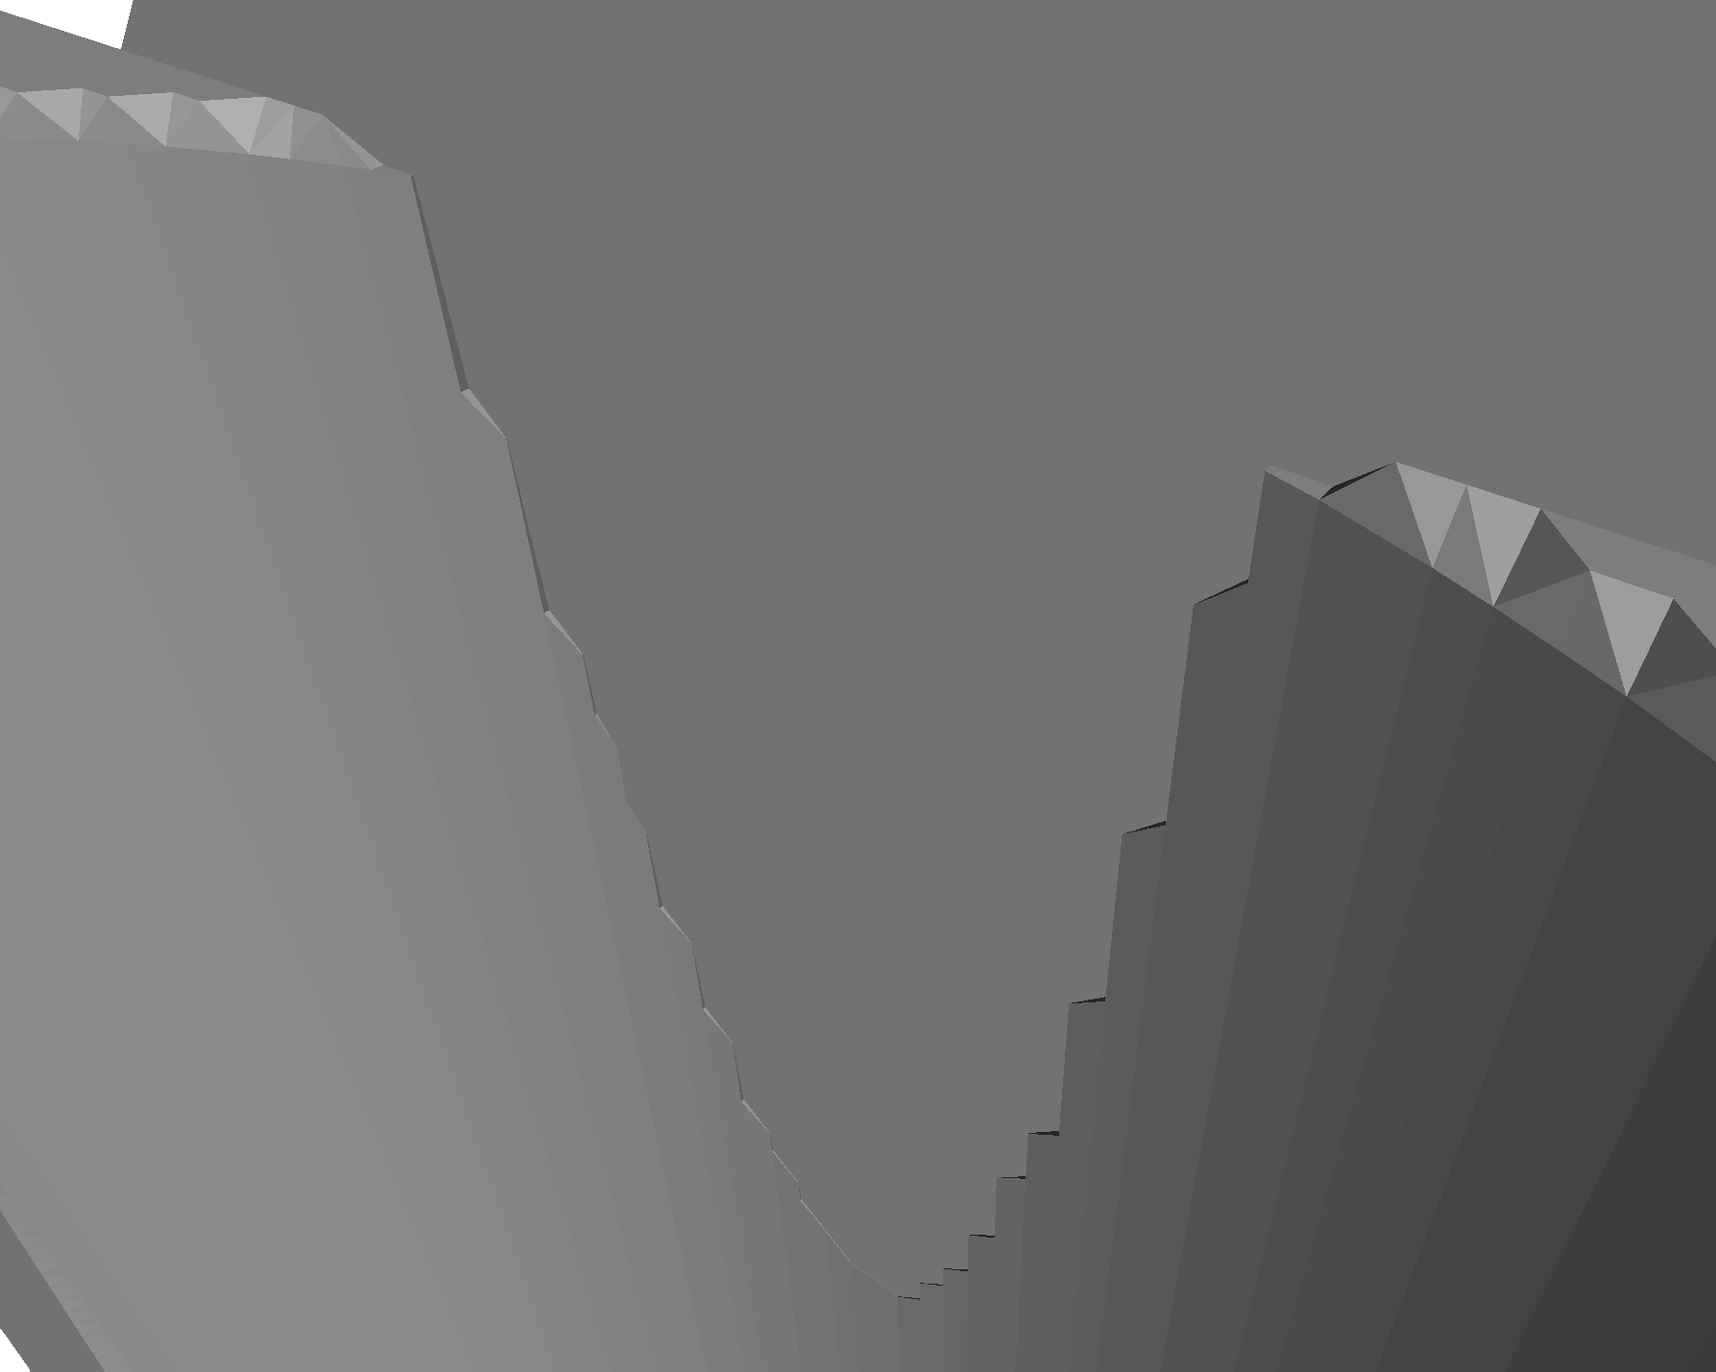
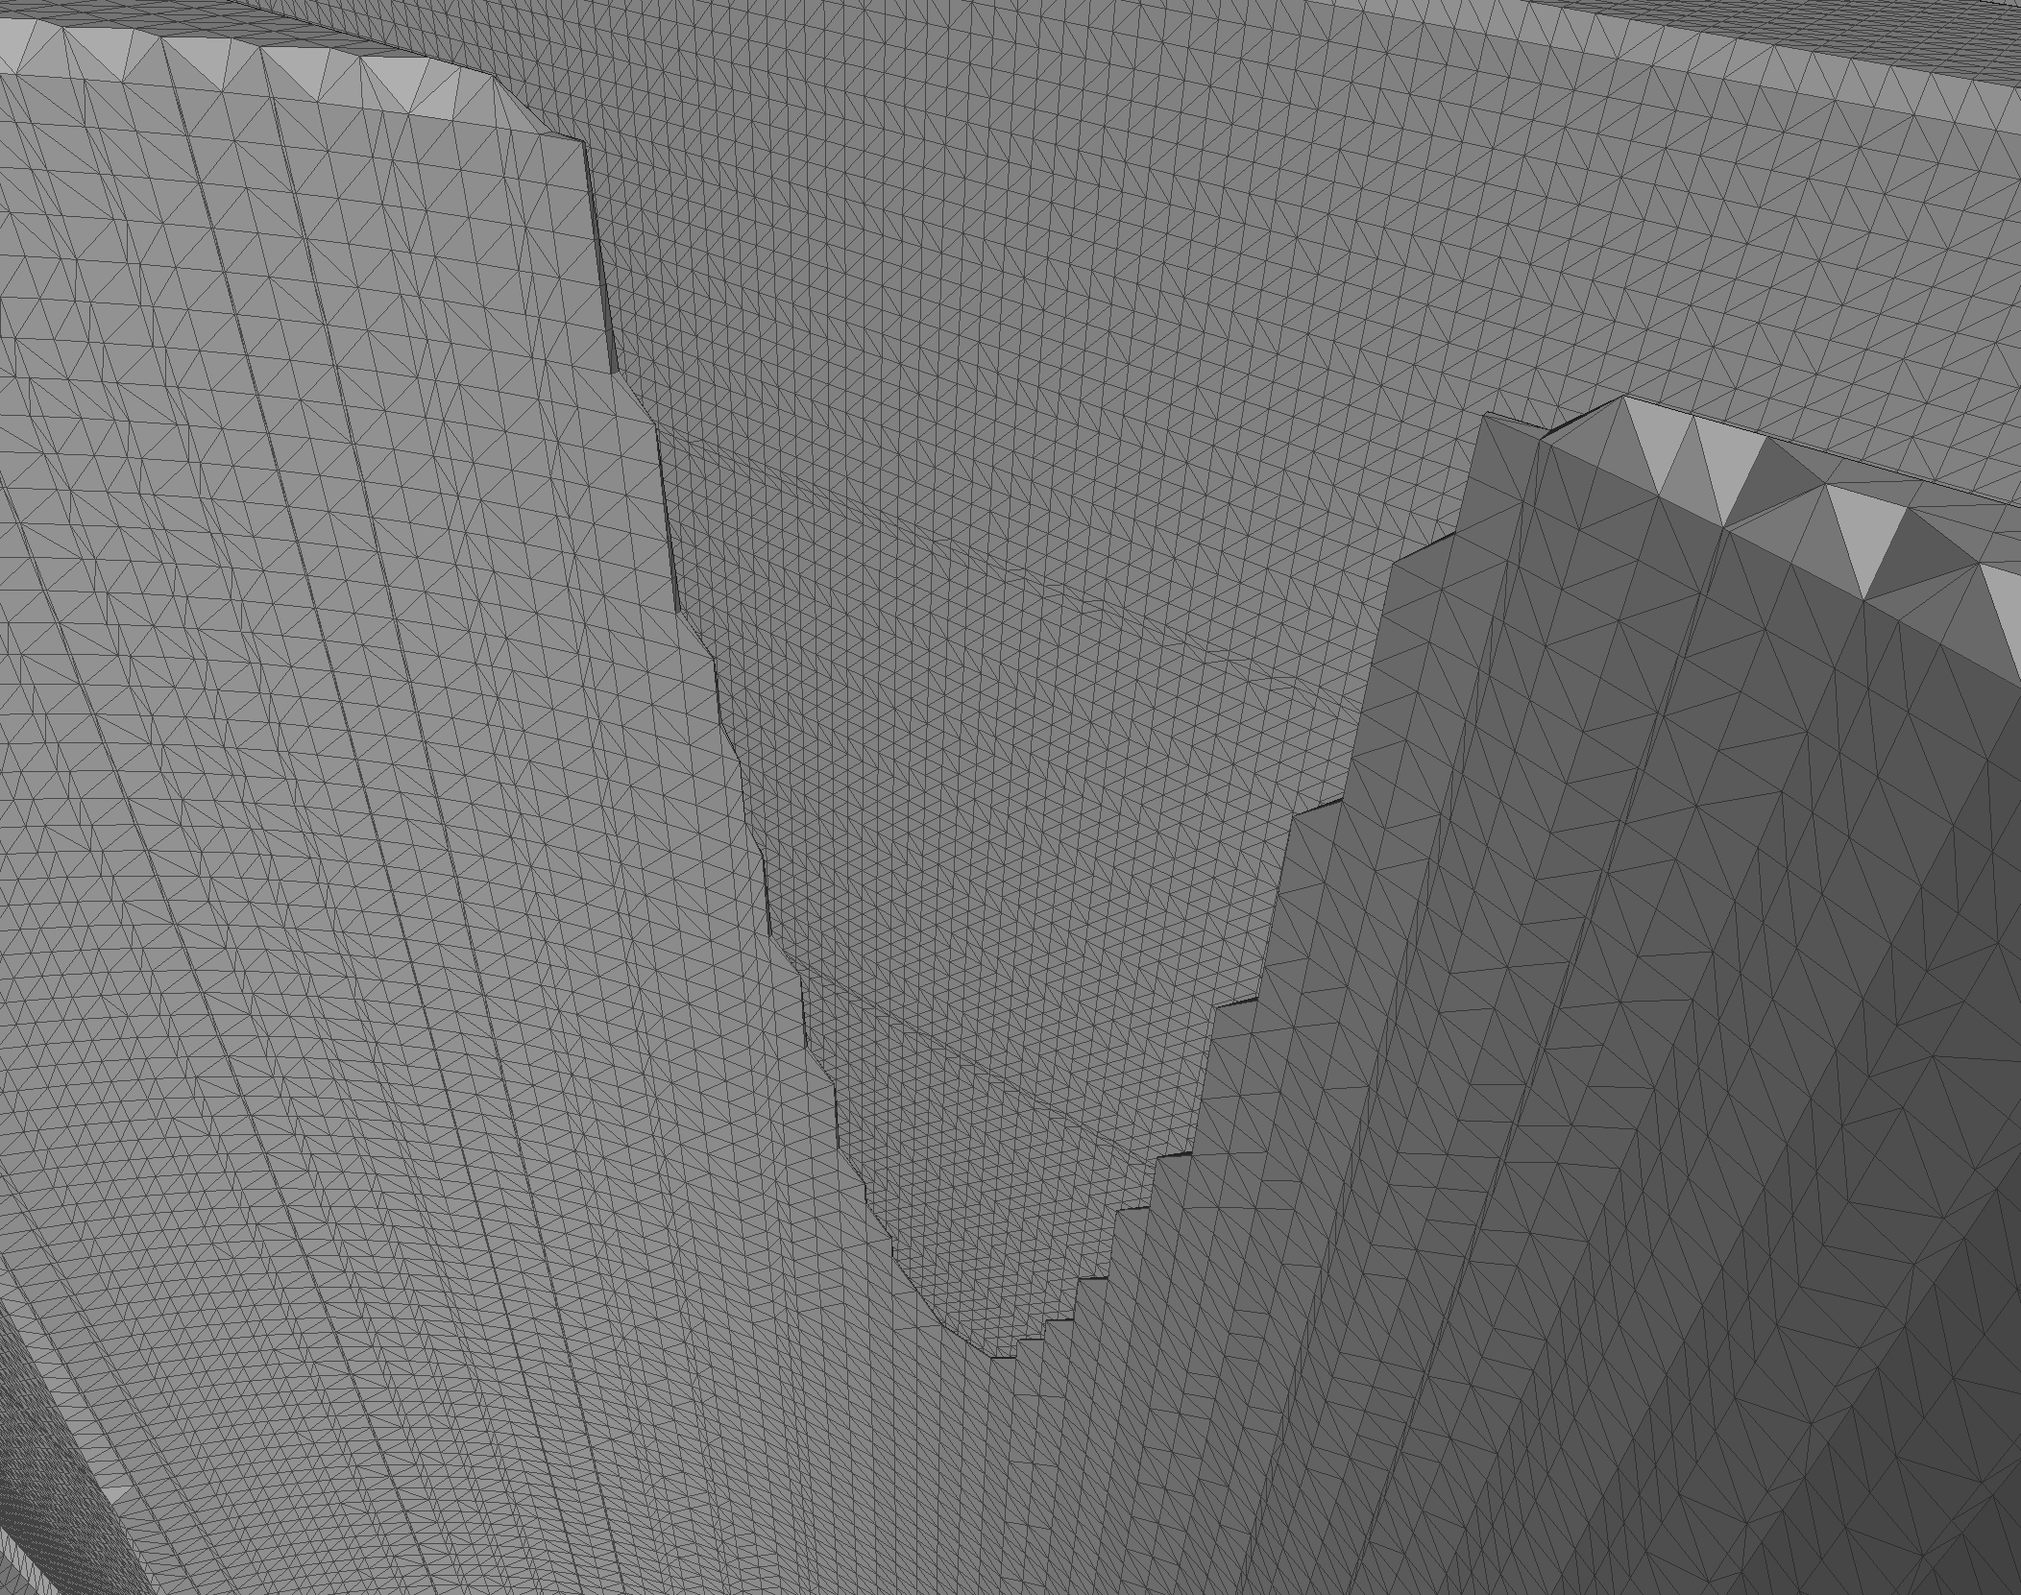
* proof-reading point_cloud_based * replaced bpa_cylinder_head_thin_fin image

diff --git a/latex/point_cloud_based.tex b/latex/point_cloud_based.tex
@@ -9,8 +9,8 @@ One possible explanation for this richness in algorithms is that point clouds ar
 Some algorithms temporarily create intermediate representations, \eg Voronoi diagrams and medial axes, like the cocone \cite{cocone, tight_cocone, robust_cocone} and crust \cite{crust, power_crust} family, or functional ones, like the MLS \cite{mls}, RBF \cite{rbf} or signed distance functions \cite{sdf_surface_reconstruction} approaches.
 Thus, some of these algorithms have other uses as well beside surface reconstruction.
 Other methods create surface triangles directly, mostly by growing a region on the sampled surface.
-They are typically faster but more susceptible to noisy input, \eg BPA and G2S.
-Nevertheless, this collection of algorithms should also be available for reconstructing surfaces from the VML's data model.
+These so-called region-growing or advancing front algorithms are typically faster but more susceptible to noisy input, \eg BPA and G2S.
+Eventually, this collection of algorithms should also be available for reconstructing surfaces from the VML's data model.
 
 In the previous chapter \ref{ch:tri_dexel}, the tri-dexel based surface reconstruction approach relied on a raycast to sample the VML's regular grid into dexels.
 This raycast may just as well be used to sample other data structures as well.
@@ -20,13 +20,13 @@ This point cloud may then be used as input to probably all point cloud based sur
 Compared with the other two implementation chapters \ref{ch:direct_intersection} and \ref{ch:tri_dexel}, this chapter resembles more an additional idea than a serious implementation.
 The reason for this is that reconstructing a surface, especially with features, turned out to be much harder from a point cloud than from semantically richer data structures such as a tri-dexel image.
 Currently, the tri-dexel approach is the preferred reconstruction approach inside the VML.
-However, giving the ability to export a point cloud opens up another huge world of research work and algorithms, and is therefore shortly discussed in this chapter.
+However, giving the ability to export a point cloud opens up another huge world of research work and algorithms, and is therefore discussed in this chapter.
 
 
 \section{Concept}
 \label{sec:point_cloud_concept}
 
-Using any kind of point cloud based algorithm for surface reconstruction from the VML's data model, boils down to two steps.
+Using any kind of point cloud based algorithm for surface reconstruction from the VML's data model boils down to two steps.
 Firstly, a point cloud has to be created from the VML's data model.
 This step is very similar and even simpler than the creation of the dexel image discussed in the previous chapter \ref{ch:tri_dexel}.
 The same raycasting technique, with all its error correcting and robustness enhancing code, will be used to sample surface intersections on the VML's data model.
@@ -63,7 +63,7 @@ Regarding its quality, a point cloud sampled from the VML's regular grid using a
 	\item
 	Each surface sample provides a perfect surface normal.
 	\item
-	The regularity of the raycaster guarantees a minimum and maximum density of the cloud, which may be derived from the ray distances along each axis.
+	The regularity of the raycaster guarantees a minimum and maximum density of the cloud, which may be derived from the distances between adjacent rays along each axis.
 \end{itemize}
 
 Despite these quality guarantees, a point cloud is still less rich in semantics when compared with a tri-dexel image.
@@ -76,12 +76,12 @@ The most prominent differences and commonalities are:
 	This property is fundamental for the tri-dexel approach, as it enables the construction of the regular tri-dexel grid and breaks down the problem of triangulation.
 	\item
 	The regularization of the tri-dexel cells provides a good way of detecting feature-rich regions which should be resampled with increased density.
-	Such regions are harder to find with a point cloud, although local point distance and normal variance might give good hints.
+	Such regions are harder to find within a point cloud, although local point distance and normal variance might give good hints.
 	\item
-	Although no regularization step is needed for small peculiarities of the cloud, it depends solely on the used reconstruction algorithm whether such information can be extracted or is left unused.
+	Although no regularization step is needed for small peculiarities of the cloud, it depends solely on the used reconstruction algorithm whether such small features are extracted or left unused.
 	Regarding the tri-dexel approach presented in chapter \ref{ch:tri_dexel}, such behavior is well-defined by either regularizing, \ie dropping, or slicing a cell with small features.
 	\item
-	In both cases, features which are not discovered by the raycaster are not present in the built data structures.
+	Regarding both data structures, features which are not discovered by the raycaster are not present in the built data structures.
 	Subsequent algorithms have to implement some kind of feature reconstruction.
 	\item
 	Point clouds are simpler data structures and easier to exchange with other 3D software.
@@ -126,6 +126,7 @@ Afterwards, the raycast is launched with the calculated resolution and the grid'
 The closure passed to the raycasting subroutine \textproc{AxisParallelRaycast} is called at every surface hit with a list of arguments.
 From these arguments only the last two, the intersection point \var{v} and the corresponding surface normal \var{n}, are relevant.
 These two are added as tuple to the current point cloud \var{cloud}.
+Mind that the closure is invoked concurrently, requiring $\var{cloud}.\var{add}$ to be thread-safe.
 After the raycast has finished, a point cloud based surface reconstruction algorithm is run, indicated by the call to \textproc{ReconstructFromPointCloud}.
 
 \subsection{Surface reconstruction}
@@ -176,6 +177,7 @@ Two examples of algorithms for surface reconstruction from point clouds are give
 	The BPA requires a user supplied ball size, which steers the capability of rolling into finer features and the danger of creating holes or falling into the point cloud.
 	If the point density is too low or the ball is too small, holes are created, \cf figure \ref{fig:bpa_principle_2}.
 	If concave features are to small or the ball is too large, features may be lost, \cf figure \ref{fig:bpa_principle_3}.
+
 	A highly tuned version of the BPA with elements of the G2S algorithm is already utilized by the VML for its swept volume computation \cite{bpa_vml}.
 	A further implementation of the BPA is available in CGAL \cite{cgal_bpa}.
 	MeshLab also offers a BPA version, parameterizable via its GUI.
@@ -275,13 +277,14 @@ Two examples of algorithms for surface reconstruction from point clouds are give
 
 	\item[Poisson] \hfill \\
 	Poisson surface reconstruction is based on implicit functions \cite{poisson}, \cf figure \ref{fig:poisson_principle}.
-	The goal is to compute a so-called indicator function $\chi$, which yields 1 for positions inside the workpiece and 0 for positions outside, \cf figure \ref{fig:poisson_indicator}
+	The goal is to compute a so-called indicator function $\chi$, which yields 1 for positions inside the workpiece and 0 for positions outside, \cf figure \ref{fig:poisson_indicator_function}
 	When moving into the workpiece from outside, the values of $\chi$ change from 0 to 1 around the surface.
 	The indicator function $\chi$, specifically its gradient $\nabla\chi$, \cf figure \ref{fig:poisson_gradient_function}, is strongly related to the normals of the input point set, a vector field $V$, \cf figure \ref{fig:poisson_oriented_points}.
 	Therefore, the problem becomes finding a function $\chi$ whose gradient $\nabla\chi$ best approximates $V$, the normals of the point cloud, \ie $\min_\chi |\nabla\chi - V|$.
 	This problem is then transformed into a standard Poisson problem, further details are given in the corresponding paper \cite{poisson}.
-	For the computation of these functions the problem space is partitioned using an octree, whose depth provides the main variable to balance memory/computational demands and reconstruction quality.
+	For the computation of these functions, the problem space is partitioned using an octree, whose depth provides the main variable to balance memory/computational demands and reconstruction quality.
 	The reconstruction of a surface is finally done by extracting an iso surface of $\chi$.
+
 	Implementations of Poisson surface reconstruction are found in \eg the CGAL \cite{cgal_poisson}, VTK \cite{vtk_poisson} and PCL \cite{pcl} library.
 	MeshLab also integrates a Poisson implementation into its GUI.
 \end{description}
@@ -290,7 +293,7 @@ Two examples of algorithms for surface reconstruction from point clouds are give
 \section{Results}
 \label{sec:point_cloud_results}
 
-The point cloud creation and the subsequent reconstruction using the few algorithms discussed in \cite{sec:point_cloud_creation} have been benchmarked for the test scenes described in section \ref{sec:test_scenes}.
+The point cloud creation and the subsequent reconstruction using the BPA discussed in \ref{sec:point_cloud_reconstruction} have been benchmarked for the test scenes described in section \ref{sec:test_scenes}.
 Analogously to the tri-dexel benchmarks, the resolutions 50, 100, 200 and 400 have been used for the raycaster creating the point clouds.
 Table \ref{tbl:point_cloud_results} contains the runtime and output size of the created point clouds.
 %
@@ -326,6 +329,7 @@ Concerning subsequent surface reconstruction algorithms, table \ref{tbl:bpa_resu
 The ball's radius is derived from the raycasting resolution and set to 1.5 times the diameter of a cell of the sampling grid created by 3 axis aligned raycasts.
 %
 \begin{table}
+	\centering
 	\begin{tabular}{l|rrr|rrr}
 		resolution     & \multicolumn{3}{c}{50} & \multicolumn{3}{c}{100} \\
 		scene          & p\sub{in} & t\sub{out} & time & p\sub{in} & t\sub{out} & time \\
@@ -337,9 +341,9 @@ The ball's radius is derived from the raycasting resolution and set to 1.5 times
 		impeller       & \SI{11}{\kilo\nothing}& \SI{20}{\kilo\nothing} & \SI{48}{\milli\second} & \SI{46}{\kilo\nothing} & \SI{ 91}{\kilo\nothing} & \SI{200}{\milli\second} \\
 		impeller\_2    & \SI{ 9}{\kilo\nothing}& \SI{17}{\kilo\nothing} & \SI{36}{\milli\second} & \SI{38}{\kilo\nothing} & \SI{ 76}{\kilo\nothing} & \SI{161}{\milli\second} \\
 		turbine        & \SI{ 7}{\kilo\nothing}& \SI{ 9}{\kilo\nothing} & \SI{20}{\milli\second} & \SI{31}{\kilo\nothing} & \SI{ 53}{\kilo\nothing} & \SI{142}{\milli\second} \\
-	\end{tabular}
-	\bigskip\\
-	\begin{tabular}{l|rrr|rrr}
+
+		\multicolumn{1}{l}{\bigskip} \\
+
 		resolution     & \multicolumn{3}{c}{200} & \multicolumn{3}{c}{400} \\
 		scene          & p\sub{in} & t\sub{out} & time & p\sub{in} & t\sub{out} & time \\
 		\midrule
@@ -382,12 +386,12 @@ This correlation now allows to calculate an approximation for the input raycasti
 
 The BPA timings in table \ref{tbl:bpa_results}, especially at higher resolutions, further show that the algorithm's runtime is strongly related to the number of points of the cloud.
 For each \SI{1}{\kilo\nothing} points, the BPA requires roughly \SI{4}{\milli\second} runtime, emitting \SI{2}{\kilo\nothing} triangles.
-At lower resolutions, the parallelization overhead becomes visible, which is not as straight-forward as for the embarrassingly parallel tri-dexel or direct intersection, \cf the corresponding paper \cite{bpa_vml}.
+At lower resolutions, the overhead of the parallelization becomes visible, which is not as straight-forward as for the embarrassingly parallel tri-dexel or direct intersection, \cf the corresponding paper \cite{bpa_vml}.
 
 Concerning memory demands, the BPA requires quite a bit of space for its acceleration structure, a regular grid partitioning the point cloud.
 This grid greatly speeds up the search for nearby points during pivoting.
 Furthermore, this grid is also the basis for a parallelization, \cf the corresponding paper for details \cite{bpa_vml}.
-In addition to the grid, the currently built mesh is stored in a rich data structure, storing not only triangles but also a lot of connectivity information between vertices, edges and faces.
+In addition to the grid, the currently built mesh is stored in a rich data structure, maintaining not only triangles but also a lot of connectivity information between vertices, edges and faces.
 These data structures sum up to roughly \SI{1.2}{\gibi\byte} memory during a reconstruct of the impeller at a resolution of 400.
 
 Figure \ref{fig:bpa_results} shows renderings of the result meshes after running the VML's BPA on point clouds created with a resolution of 400.
@@ -445,10 +449,10 @@ Figure \ref{fig:bpa_results} shows renderings of the result meshes after running
 	\label{fig:bpa_results}
 \end{figure}
 %
-All scenes except the turbine have been extracted flawlessly.
+All scenes except the turbine have been extracted without errors.
 The BPA did a good job in creating a mesh for each point cloud, although the reconstructions are not perfect.
 Especially sharp edges and corners are missing in all reconstructions.
-Furthermore, similar to the tri-dexel, the BPA also produces a high number of triangles in flat regions, where far less triangles would be necessary to express the same surface.
+Furthermore, similar to the tri-dexel, the BPA also produces a high number of triangles in flat regions, where far less triangles would be needed to express the same surface.
 Again, this may be solved by running a post processing step which recombines adjacent triangles with equal normals.
 
 Similar to the tri-dexel, the BPA also reproduces the original triangulation of the volumes in the cylinders\_d scene, clearly seen at the drilling and the lateral surface of the stock in figure \ref{fig:bpa_cylinders_d}.
@@ -635,10 +639,11 @@ Figure \ref{fig:poisson_results} shows renderings of the cylinder\_head and impe
 	\label{fig:poisson_results}
 \end{figure}
 %
-As the Poisson surface reconstruction tries to be robust against inhomogeneous and noisy inputs, sharp features are considered outliers and lost during the function fitting process.
+As the Poisson algorithm tries to be robust against inhomogeneous and noisy inputs, sharp features are considered outliers and lost during the function fitting process.
 This gives the reconstructed meshes a smooth and roundish appearance, as visible in the general renderings in figures \ref{fig:poi_cylinder_head} and \ref{fig:poi_hq_impeller}.
 The detailed rendering of a drilling of the cylinder\_head in figure \ref{fig:poi_cylinder_head_detail} further demonstrates the loss of sharp edges.
 Additionally, the structure in the upper right, the drilling at the fin, is almost completely lost as the structure is too thin to allow the creation of a surface.
+
 Figure \ref{fig:poi_hq_impeller_points} shows a reconstructed blade of the impeller together with the sampled point cloud.
 The amount of lost volume, especially at the blade's tip and edge at the left, is clearly visible, as the surface only bends towards the points in flatter regions.
 Nevertheless, the resulting triangulation is appealing with even a bit of adaptivity, containing larger triangles in flatter regions.
@@ -682,12 +687,12 @@ At a resolution of 50, the groove is simply sampled too poor for the Poisson rec
 This result is comparable to the BPA's performance at the same resolution in figure \ref{fig:bpa_turbine_groove_50}, where the ball was to big to roll inside the groove.
 At a resolution of 100, the groove becomes visible as the indentation is created.
 Still, the concave rills inside the notch as well as the indentation at the bottom of the groove are not visible yet.
-The former is acceptably reconstructed at a resolution of 200 while the latter requires a resolution of 400 to appear.
+The rills are acceptably reconstructed at a resolution of 200 while the bottom notch requires a resolution of 400 to appear.
 Compared with the tri-dexel approach and similarly to the BPA, the Poisson surface reconstruction also requires roughly twice the resolution of the tri-dexel for a visually comparable output regarding the captured features.
-However, as detailed in the section \ref{sec:point_cloud_concept}, the main reason for this issue is the richer semantic carried by the tri-dexel image when compared with a point cloud.
+However, as detailed in section \ref{sec:point_cloud_concept}, the main reason for this issue is the richer semantic carried by the tri-dexel image when compared with a point cloud.
 
 Concerning timings, the Poisson surface reconstruction filter of MeshLab is roughly 10 - 20 times slower than the BPA implementation of the VML, \cf table \ref{tbl:bpa_results}.
-\Eg, the runtimes for the turbine scene at the resolutions 50, 100, 200 and 400 are, averaged over 5 runs, \SI{941}{\milli\second}, \SI{2816}{\milli\second}, \SI{10587}{\milli\second} and \SI{46397}{\milli\second}, respectively, measured using MeshLab.
+\Eg, the runtimes for the turbine scene at the resolutions 50, 100, 200 and 400, averaged over 5 runs, are \SI{941}{\milli\second}, \SI{2816}{\milli\second}, \SI{10587}{\milli\second} and \SI{46397}{\milli\second}, respectively, measured using MeshLab.
 However, the algorithm employed by MeshLab runs single threaded.
 Accounting for this difference, MeshLab's Poisson implementation and the VML's BPA would both require a runtime in the same order of magnitude
 During the reconstruction at resolution 400, roughly \SI{400}{\mebi\byte} were allocated, making the Poisson algorithm significantly more light-weight than the BPA.
